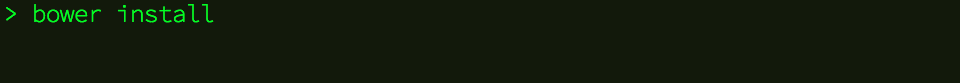
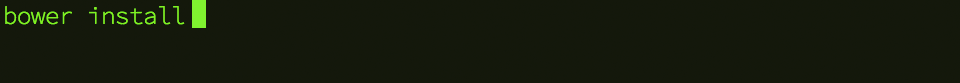
Improved instructions after user-test

Changed region(s): [[0.0, 0.0, 0.25, 0.3373]]

diff --git a/README.md b/README.md
@@ -54,11 +54,14 @@ If you haven't installed bower yet, [follow the instructions](#installing-bower)
 * *Navigate* to the `LearnPress` folder  
 
 	* On Mac, drag the `LearnPress` folder onto the Terminal app icon  
+	![](img/folder-drag.png)
 
 	* On Windows, drag the `LearnPress` folder inside CommandPrompt, then change `C:` to `cd`, so that you'll end up with something like `cd  \wamp\www\YOUR_SITE_NAME\wp-content\themes\LearnPress`
 * Type in `bower install` and press the `↲` (Enter) key
 
 ![](img/terminal-bower-install.png)
+
+Bower will install the *dependencies* listed in [bower.json](bower.json).
 
 If all goes well, you should end up with a new `bower_components` folder containing `html5-boilerplate` and `skeleton-css`
 	
@@ -71,7 +74,7 @@ If all goes well, you should end up with a new `bower_components` folder contain
 
 ![](img/terminal-bower-installed.png)
 
-Bower will install the **components** listed in `bower.json`.
+
 
 
 #### Troubleshooting
@@ -108,6 +111,8 @@ Bower is a **command-line tool**, so you'll use the following application, depen
 | [Terminal](http://mac.appstorm.net/how-to/utilities-how-to/how-to-use-terminal-the-basics/) | [CommandPrompt](http://windows.microsoft.com/en-gb/windows-vista/open-a-command-prompt-window) | [Terminal](https://help.ubuntu.com/community/UsingTheTerminal) |
 
 ![](http://i.imgur.com/Gv6qlyH.gif)
+
+[Don't fear the command line](https://zurb.com/expo/lessons/don-t-fear-the-command-line) :)
 
 Once you've opened Terminal / CP, install a couple of things:
 
